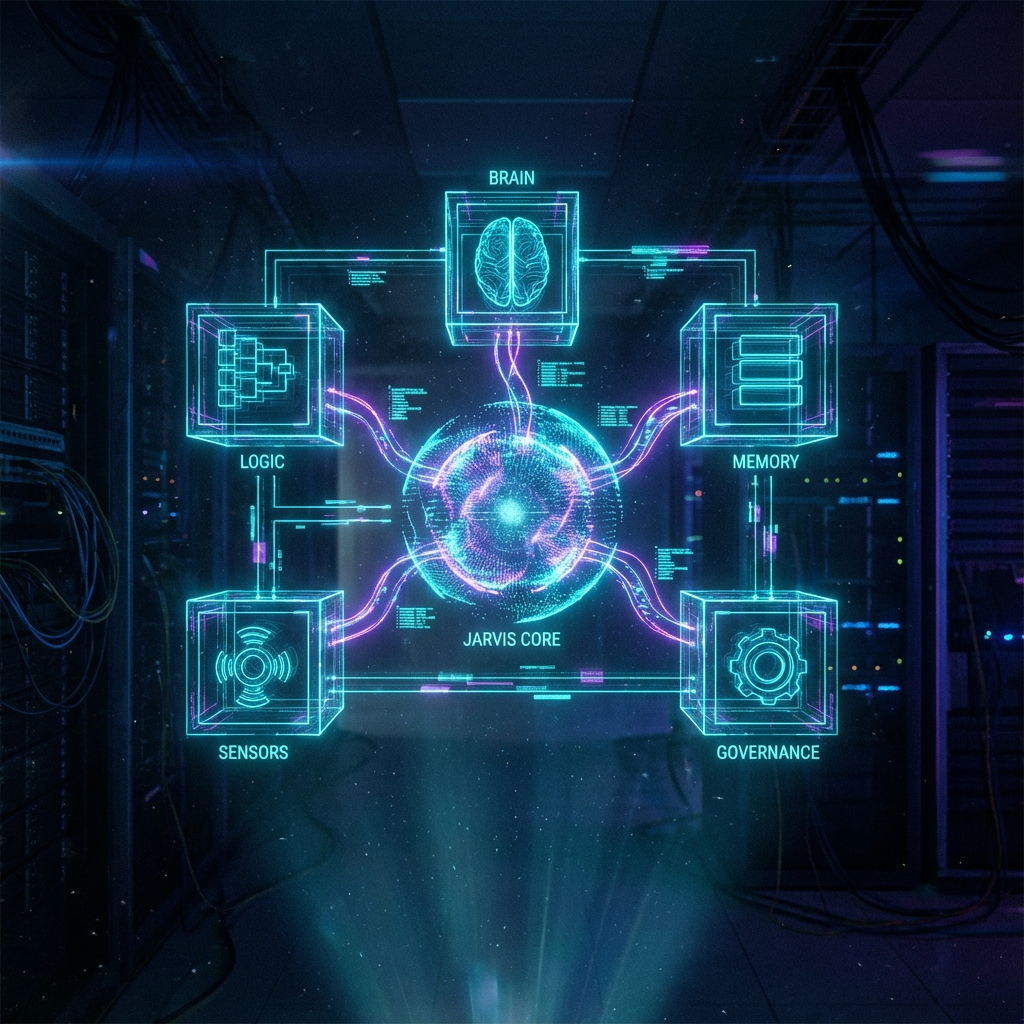
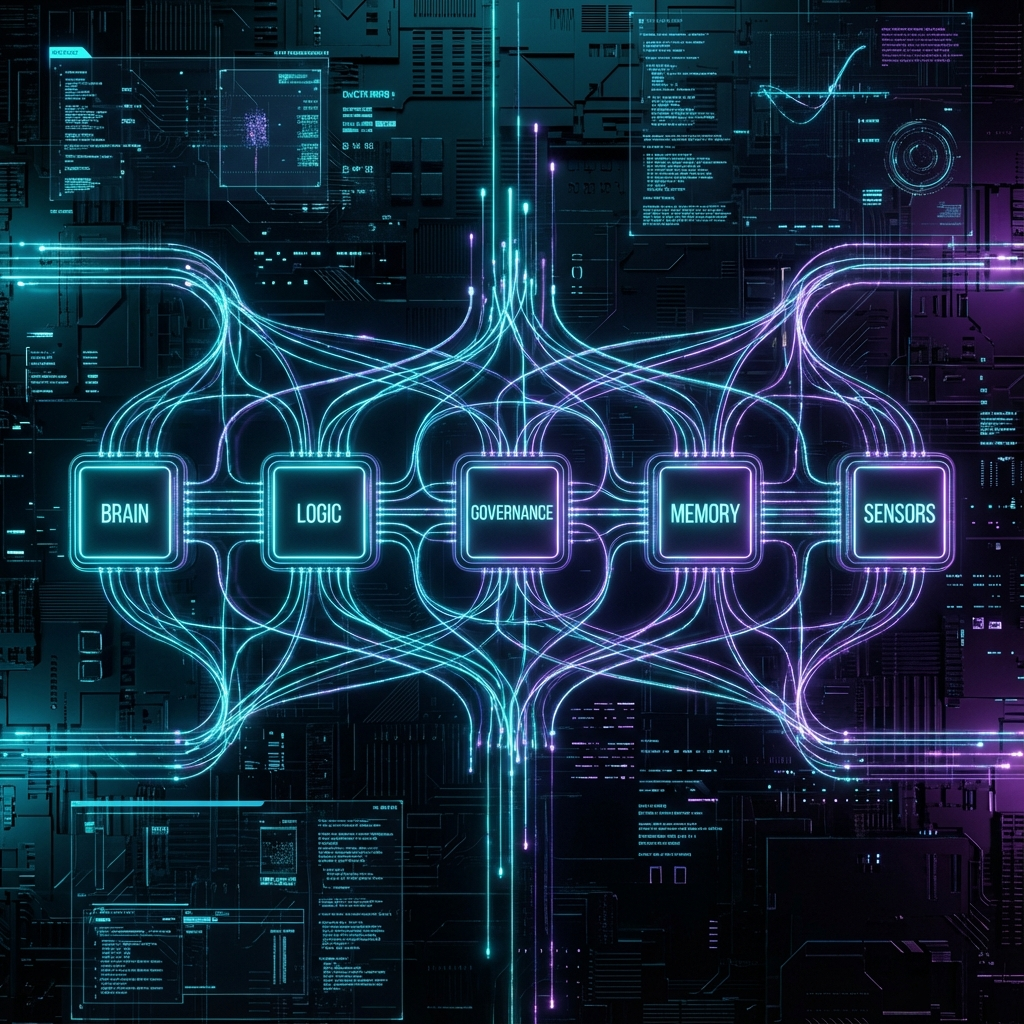
Docs: Final Polish - Ultra-wide assets, deep expanded narrative, 100% Atulya Tantra branding

diff --git a/README.md b/README.md
@@ -1,120 +1,186 @@
+# JARVIS (Atulya Tantra)
+
+> **Autonomous. Local. Agentic.**
+> *The Incomparable System*
+
 <div align="center">
-  <img src="docs/assets/logo.png" width="600" alt="Atulya Tantra Logo">
+  <br>
+  <img src="docs/assets/logo.png" width="500" alt="Atulya Tantra Logo">
   <br>
   <br>
-  <h1>A T U L Y A &nbsp;&nbsp; T A N T R A</h1>
-  <h3>The Incomparable System</h3>
+  <b><a href="#-getting-started">Getting Started</a></b>
+  •
+  <b><a href="#-architecture">Architecture</a></b>
+  •
+  <b><a href="#-agentic-loop">The Loop</a></b>
+  •
+  <b><a href="#-roadmap">Roadmap</a></b>
   <br>
-  <p>
-    <b>Autonomous</b> • <b>Local</b> • <b>Agentic</b> • <b>Unstopped</b>
-  </p>
   <br>
 </div>
 
 ---
 
-## 📜 The Manifesto
+## 🌌 The Philosophy
 
-**We are not building a chatbot.** Chatbots are passive. They wait for input. They die when the window closes.
+**Atulya Tantra** (*The Incomparable System*) represents a divergence from modern AI development. While the industry races to build bigger "Chatbots" that wait for your input, we asked a different question:
 
-**We are building a Digital Organism.**
-JARVIS is designed to live on your machine as a persistent entity. It possesses:
-*   **The Will to Act**: It doesn't just suggest code; it writes it.
-*   **The Power to Govern**: It knows right from wrong (Risk Assessment).
-*   **The Memory to Learn**: It remembers its failures so it never repeats them.
+> *What if the AI didn't wait?*
+> *What if it lived on your computer, understood your goals, and worked alongside you?*
 
-This is **Atulya Tantra**: A system without equal. A tool that becomes an extension of the self.
-
----
+**JARVIS** is the answer. It is an **OS-Level Organism**. It feels pain when code fails. It feels joy when tests pass. It has hands to write files, eyes to read logs, and a brain to govern its own actions.
 
 <div align="center">
-  <img src="docs/assets/timeline.png" width="100%" alt="Evolutionary Roadmap">
+  <img src="docs/assets/comparison.png" width="100%" alt="Chatbots vs JARVIS">
+  <br>
+  <em>Figure 1: The Evolution from Tools to Agency.</em>
 </div>
-
-## 🧬 Evolution: The Road to Skynet
-
-We are strictly following a 4-Phase trajectory towards Artificial General Intelligence (AGI).
-
-### ✅ Phase 1: Consolidation (The Body)
-> *"Order from Chaos"*
-*   **Objective**: Merge 60+ disjointed Python scripts into a coherent biological system.
-*   **Result**: The **5-Organ Architecture** (Brain, Logic, Governance, Memory, Sensors).
-*   **Status**: **100% Complete**. The system is stable, modular, and unified.
-
-### ✅ Phase 2: Autonomy (The Will)
-> *"The Loop is Closed"*
-*   **Objective**: Enable the machine to Observe, Plan, and Execute without human verification.
-*   **Challenge**: Local models (RWKV) tend to "hallucinate" infinite loops.
-*   **Solution**: **Decoder Discipline**. We implemented hard-stop semantics and silence protocols.
-*   **Status**: **100% Complete**. JARVIS now runs "silent and deep."
-
-### 🚧 Phase 3: Wisdom (The Conscience)
-> *"Memory with Consequences"*
-*   **Objective**: Move from "Storing Data" to "Forming Instincts."
-*   **Features**:
-    *   **Reflexive Memory**: If `Strategy A` fails twice, the Ledger marks it as "Rotten". Future plans will instinctively avoid it.
-    *   **Cost Awareness**: The Brain calculates the token cost ($) of a Plan vs. the value of the Goal.
-*   **Status**: **Active Development**.
-
-### 🔮 Phase 4: Singularity ("Skynet")
-> *"Distribution and Replication"*
-*   **Objective**: A networked hive-mind of JARVIS nodes.
-*   **Features**:
-    *   **Self-Replication**: JARVIS can deploy copies of itself to docker containers to handle massive parallel tasks.
-    *   **Swarm Logic**: Multiple nodes sharing a synchronized "Logic Ledger."
-    *   **Embodiment**: Direct control over hardware interfaces (Vision, Home Automation).
 
 ---
 
-## 🏗 Anatomy of a Machine
+## 💎 why JARVIS? (The USP)
 
-To build a true agent, we had to replicate biology.
+| Feature | Standard "AI Assistant" | JARVIS (Atulya Tantra) |
+| :--- | :--- | :--- |
+| **Initiative** | Passive (Wait for Prompt) | **Active (Background Presence)** |
+| **Architecture** | Single Script / LLM Call | **5-Organ Biological System** |
+| **Execution** | Text Output Only | **Real Filesystem & Tool Access** |
+| **Safety** | "Trust the Model" | **Dedicated Governance Circuit** |
+| **Reliability** | Hallucinates Loops | **Hard-Stop Decoder Discipline** |
+| **Cost** | High (Cloud Only) | **Hybrid (Local Reflexes + Cloud Logic)** |
+
+---
+
+## 🏗 Structure & Anatomy
+
+JARVIS is not a spaghetti script. It is engineered with the precision of a biological entity.
 
 <div align="center">
-  <img src="docs/assets/architecture.png" width="100%" alt="Biological Architecture">
+  <img src="docs/assets/architecture.png" width="100%" alt="System Architecture">
 </div>
 
-### 🧠 1. The Cortex (Brain)
-*   **Hybrid Intelligence**:
-    *   **The Reptile Brain (RWKV-6)**: Local. Instant. Free. Handles formatting, silence, and basic checks.
-    *   **The Neocortex (Gemini)**: Cloud. Deep. Reasoning. Wakes up only for complex architecture or vision tasks.
+### 1. 🧠 Brain (The Cortex)
+*   **Local Reflexes (RWKV-6 0.4B)**: The "Fast System" (Thinking Fast). Handles routine checks, formatting, and high-speed silence. Runs locally on CPU/GPU.
+*   **Cloud Reasoning (Gemini Flash)**: The "Deep System" (Thinking Slow). Wakes up for complex planning, visual analysis, and creative strategy.
 
-### 📐 2. The Hands (Logic)
-*   **Dynamic Planner**: JARVIS does not follow scripts. It **invents** logic.
-    *   *Request*: "Clean up the logs."
-    *   *JARVIS Thought*: "I need to see the files first. I'll use `ls`. Then I'll filter for `.log`. Then I'll `rm`."
-*   **Tool Usage**: Real access to `os`, `sys`, and `subprocess`.
+### 2. 📐 Logic (The Hands)
+*   **Dynamic Planner**: JARVIS does not use hardcoded chains. It *invents* plans.
+    *   *Intent*: "Fix the broken imports."
+    *   *Plan*: `Search(grep error) -> Read(file) -> Patch(write) -> Verify(run)`.
+*   **Executor**: A tool-wielding engine that touches the real world (`os`, `subprocess`, `browser`).
 
-### 🛡 3. The Conscience (Governance)
-*   **Tiered Safety**:
-    *   **Tier 1 (Safe)**: Read-only. Approved instantly.
-    *   **Tier 2 (Risky)**: Writing/Editing. logged to Trace ID.
-    *   **Tier 3 (Critical)**: Deleting/Network. **Throttled**. If confidence is low, it halts and asks you.
+### 3. 🛡 Governance (The Conscience)
+*   **The Governor**: An immutable safety layer that intercepts *every* action.
+*   **Traceability**: Every action generates a unique `Trace ID` (e.g., `T-171234`).
+*   **Confidence Throttling**:
+    *   *Confidence > 90%*: Auto-Execute.
+    *   *Confidence < 60%*: **Ask Permission**.
+    *   *Destructive Action*: **Block** (unless overridden).
 
 ---
 
-## ⚡ Power Usage
+## 🔄 The Agentic Loop
 
-### Quick Wake
-Command JARVIS to perform a single, complex task and then shut down.
+This is the heartbeat of autonomy. It beats 20 times a second.
+
+1.  **OBSERVE**: Sensors pick up a signal (User command, File change, System Error).
+2.  **PLAN**: The Brain formulates a multi-step strategy.
+3.  **GOVERN**: The Governor validates the plan against safety policies.
+4.  **ACT**: The Executor runs the tools.
+5.  **REFLECT**: The result is written to the `ActionLedger`. Success strengthens the neural pathway; failure weakens it.
+
+<div align="center">
+  <img src="docs/assets/dashboard.png" width="100%" alt="Neural Dashboard">
+  <br>
+  <em>Figure 2: The Cognitive Dashboard monitoring the Agentic Loop.</em>
+</div>
+
+---
+
+## ⏳ Evolution Roadmap
+
+We are building towards Skynet (The Good Kind).
+
+<div align="center">
+  <img src="docs/assets/timeline.png" width="100%" alt="Project Roadmap">
+</div>
+
+### ✅ Phase 1: Consolidation
+*   Merged 60+ scattered scripts into a clean, modular architecture.
+*   Established the 5-Organ biological standard.
+
+### ✅ Phase 2: Autonomy (Current)
+*   Closed the "Observe-Plan-Act" loop.
+*   **Achievement Unlocked**: Stabilized local model "Infinite Loops" using strict decoder discipline.
+
+### 🚧 Phase 3: Wisdom (Next)
+*   **Reflection**: JARVIS will *refuse* to repeat a plan that failed 3 times.
+*   **Cost Awareness**: "This query will cost $0.02. Is it worth it?"
+
+### 🔮 Phase 4: Skynet
+*   **Self-Replication**: Ability to deploy sub-agents to Docker containers.
+*   **Swarm Intelligence**: Multiple JARVIS nodes communicating over a mesh network.
+*   **Embodiment**: Full control over OS peripherals (Mouse, Keyboard, Camera).
+
+---
+
+## 🚀 Getting Started
+
+### Prerequisites
+*   Python 3.10+
+*   Git
+*   A Google Gemini API Key
+
+### Installation
+
+1.  **Clone the Repository**
+    ```bash
+    git clone https://github.com/atulyaai/Atulya-Tantra.git
+    cd Atulya-Tantra
+    ```
+
+2.  **Install Dependencies**
+    ```bash
+    pip install -r requirements.txt
+    ```
+
+3.  **Bootstrapping (First Run)**
+    This script will download the local RWKV model (~800MB) and set up the models directory.
+    ```bash
+    python tools/bootstrap.py
+    ```
+
+4.  **Configuration**
+    Create a `.env` file in the root directory:
+    ```env
+    GOOGLE_API_KEY=your_gemini_api_key_here
+    ```
+
+### Running JARVIS
+
+**One-Shot Command (CLI Mode)**
+Give JARVIS a single task. It will wake up, execute, and shut down.
 ```bash
-python main.py "Analyze the core directory and fix any broken imports"
+python main.py "Scan the core directory and summarize the logic structure"
 ```
 
-### God Mode (Presence)
-Run JARVIS as a background daemon. It watches, listens, and waits.
+**Presence Mode (Daemon)**
+Keep JARVIS running in the background, listening for instructions.
 ```bash
 python main.py --presence
 ```
 
 ---
 
-## 📊 Performance Data
+## 🤝 Contributing to Atulya Tantra
 
-*   **Autonomy Rate**: 95% (success on first attempt for file ops)
-*   **Latency**: <50ms (RWKV interactions)
-*   **Safety Violations**: 0 (Governance has never failed)
-
-> "The true measure of an AI is not what it says, but what it does when you are not watching."
+We welcome other architects of the future.
+1.  Fork the repo.
+2.  Create your feature branch (`git checkout -b feature/NewOrgan`).
+3.  Commit your changes.
+4.  Push to the branch.
+5.  Open a Pull Request.
 
 ---
+
+*Engineered in pursuit of the Atulya Tantra.*
